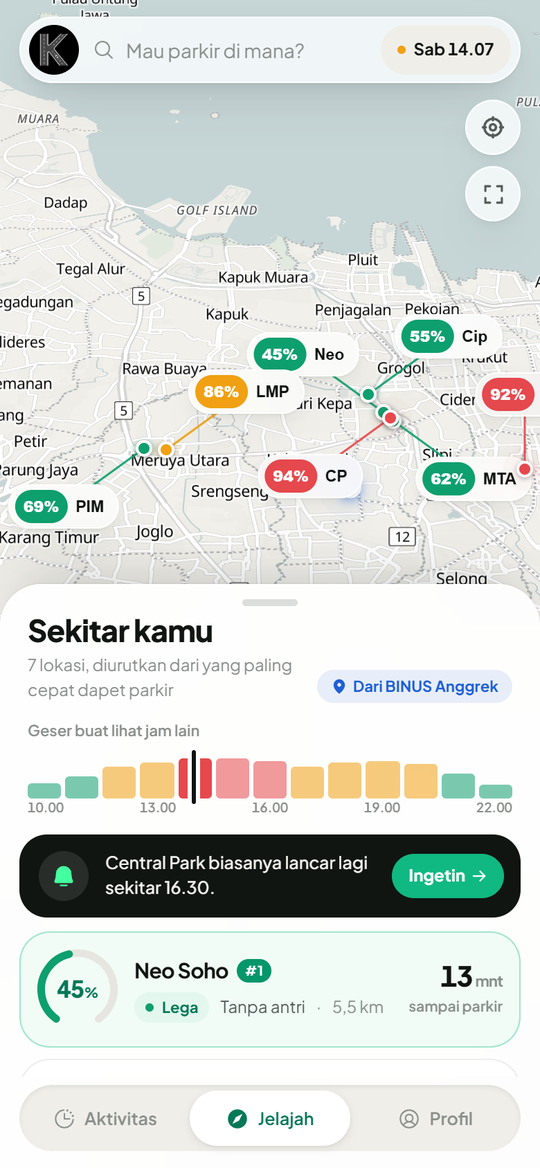
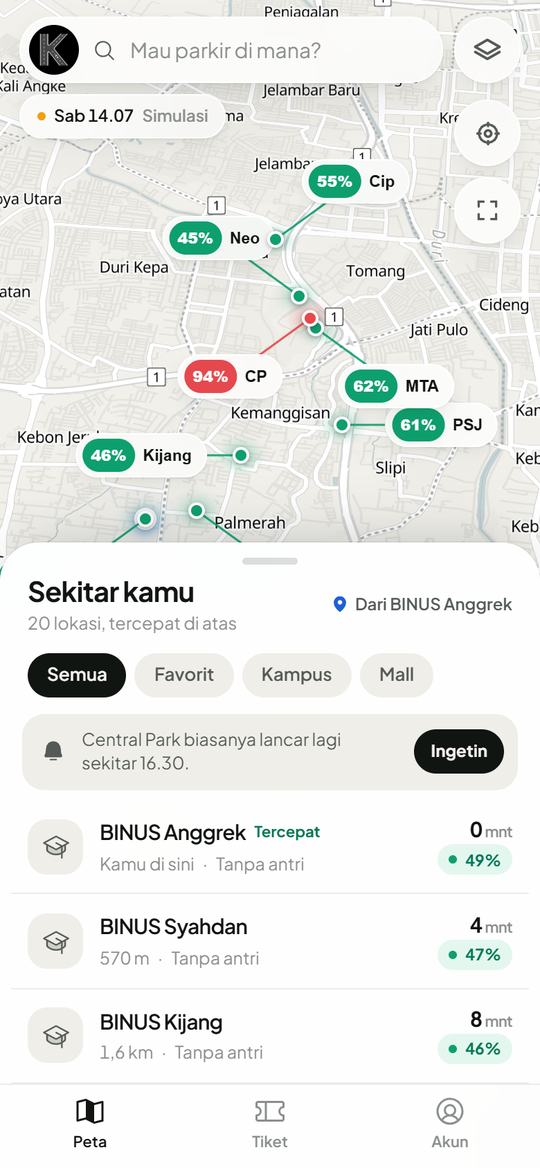
docs: three tabs, valet, campuses, motorbikes and map options

diff --git a/README.md b/README.md
@@ -8,73 +8,112 @@
 Seberapa penuh, antri gerbang berapa menit, dan ke mana kalau penuh. Sebelum kamu berangkat.</p>
 
 <p align="center"><a href="https://kenneth-9339d.web.app"><b>kenneth-9339d.web.app</b></a><br/>
-Buka di HP untuk app-nya, atau di laptop untuk mode showcase dengan QR.</p>
+Buka di HP untuk app-nya. Di laptop, app yang sama tampil di bingkai HP dengan QR di pojok.</p>
 
 <p align="center">
-  <img src="docs/screens/explore.png" width="200" alt="Layar Jelajah" />
+  <img src="docs/screens/explore.png" width="200" alt="Tab Peta" />
   <img src="docs/screens/venue-led.png" width="200" alt="Detail lokasi dengan papan sisa slot" />
-  <img src="docs/screens/find-car-3d.png" width="200" alt="Denah basement 3D" />
-  <img src="docs/screens/priority-pass.png" width="200" alt="Tiket jalur prioritas" />
+  <img src="docs/screens/valet.png" width="200" alt="Tiket valet, mobil siap di lobi" />
+  <img src="docs/screens/account.png" width="200" alt="Tab Akun" />
 </p>
 
 > **Status: prototipe.** Dibuat untuk mata kuliah ENPR6312 Venture Creation (BINUS, semester ganjil 2026/2027).
 > Semua angka okupansi, antrian, dan tarif di app ini **disimulasikan**. Belum ada pengelola gedung yang terhubung,
 > dan app menyebut itu di setiap halaman lokasi.
 
-*English summary: KENNETH is a mobile web app that shows how full Jakarta mall car parks are before you leave home,
-how long the gate queue is, and which nearby mall still has space. This repo is a working prototype with simulated data,
-built for a university venture course.*
+*English summary: KENNETH is a mobile web app that shows how full Jakarta car parks (malls and the BINUS campuses)
+are before you leave home, how long the gate queue is, and which nearby place still has space. It books priority
+entry, the building's valet and EV chargers. This repo is a working prototype with simulated data, built for a
+university venture course.*
 
 ---
 
 ## Masalahnya
 
 Di Jakarta, akhir pekan, muter 20 sampai 30 menit nyari parkir itu biasa. Yang bikin kesel, sering ada mall lain
-5 menit dari situ yang masih lega, dan nggak ada yang ngasih tahu. Google Maps nganter sampai pintu gedung lalu berhenti.
-App operator parkir baru kepakai setelah kamu masuk. Padahal keputusan paling berharga terjadi sebelum berangkat.
+5 menit dari situ yang masih lega, dan nggak ada yang ngasih tahu. Hari kerja ceritanya pindah ke kampus: gedung parkir
+BINUS penuh dari kelas pagi, padahal kampus sebelahnya masih ada tempat. Google Maps nganter sampai pintu gedung lalu
+berhenti. App operator parkir baru kepakai setelah kamu masuk. Padahal keputusan paling berharga terjadi sebelum berangkat.
 
 **Google Maps berhenti di pintu gedung. KENNETH mulai dari situ.**
 
-## Yang bisa dicoba
+## Cara pakainya
+
+App-nya cuma tiga tab, selalu di tempat yang sama di bawah layar. Nggak ada dashboard, dan app nggak pernah pindah
+tab sendiri.
+
+| Tab | Isi |
+|---|---|
+| **Peta** | Peta plus daftar tempat, urut dari yang paling cepat dapet parkir. Filter Semua, Favorit, Kampus, Mall. Buka satu tempat untuk papan "SISA SLOT" dan empat tombol: Rute, Pesan, Parkir, Ingetin |
+| **Tiket** | Yang sedang berjalan: lokasi parkirmu, tiket jalur prioritas, valet, charger. Lalu pengingat dan riwayat |
+| **Akun** | Masuk dengan Google atau tetap jadi tamu, kendaraan (mobil dan motor), paket, dampak bulan ini, opsi peta, notifikasi |
+
+Pertama kali dibuka ada onboarding empat langkah (bisa dilewati): sambutan, yang bisa dibantu, tempat favorit,
+kendaraan. Setelah itu langsung ke peta.
+
+Halaman lain:
 
 | Halaman | Isi |
 |---|---|
-| `/` | App utama. Di HP tampil penuh, di laptop tampil sebagai showcase dengan HP yang bisa diklik dan QR buat dibuka di HP |
 | `/mitra` | Dashboard untuk pengelola gedung (produk B2B): pengunjung yang batal datang, larinya ke mana, beban tiap gerbang, pola seminggu |
 | `/booth` | Mode booth BINUS Festival: form validasi + feedback grid, hasilnya bisa diunduh CSV atau JSON |
 
-Untuk demo, jam app diset ke **Sabtu 14.07** (skenario puncak). Ganti lewat chip jam di pojok kanan atas atau
-Profil, Mode demo, Waktu simulasi.
+Keduanya ada di Akun, bagian "Untuk tim dan demo". Untuk demo, jam app diset ke **Sabtu 14.07** (mall puncak).
+Ganti lewat chip jam di kiri atas peta. **Selasa 10.00** memperlihatkan kampus yang penuh.
+
+## Lokasi
+
+20 lokasi, sengaja dipadatkan di sekitar tiap kampus BINUS (keputusan tim: kepadatan cakupan lebih penting dari luas):
+
+| Area | Kampus | Mall |
+|---|---|---|
+| Kemanggisan, Tanjung Duren | BINUS Anggrek, Syahdan, Kijang | Central Park, Neo Soho, Taman Anggrek, Mal Ciputra, Plaza Slipi Jaya |
+| Puri | | Lippo Mall Puri, Puri Indah Mall |
+| Senayan, Thamrin | BINUS Senayan | Senayan City, Plaza Senayan, fX Sudirman, Grand Indonesia |
+| Alam Sutera | BINUS Alam Sutera | Mall @ Alam Sutera, Living World |
+| Bekasi | BINUS Bekasi | Summarecon Mall Bekasi |
+
+Kampus punya kurva sendiri (penuh dari kelas pagi di hari kerja, sepi hari Minggu) dan jam buka 06.00 sampai 21.00.
+Kalau satu kampus penuh, alternatifnya kampus lain atau tempat yang bisa dijalan kaki, bukan mall di seberang kota.
+Motor dan mobil punya slot, tingkat keterisian, dan tarif sendiri: ganti kendaraan di Akun, semua angka ikut berubah.
 
 ## Fitur, dipetakan ke 11 fitur di dokumen strategi
 
 | # | Fitur | Di mana |
 |---|---|---|
-| 01 | Kondisi parkir real-time | Pin dan daftar di Jelajah, papan "SISA SLOT" di detail lokasi |
+| 01 | Kondisi parkir real-time | Pin dan daftar di Peta, papan "SISA SLOT" di detail lokasi |
 | 02 | Rekomendasi alternatif | Detail lokasi yang penuh, bagian "Masih lega di dekat sini" |
-| 03 | Ingetin saat lega | Kartu "biasanya lancar lagi sekitar..." di Jelajah dan detail |
-| 04 | Estimasi biaya parkir | Detail lokasi, pengatur jam |
-| 05 | Arahkan ke gerbang yang bener | Chip antrian tiap gerbang di peta, rute otomatis ke gerbang paling lancar |
-| 06 | Inget lokasi mobil | "Udah sampai" atau "Parkir di sini", simpan lantai, zona, pilar, lobi, foto |
-| 07 | Rute mobil ke tenant | Detail lokasi, "Dari parkir ke tujuan", plus denah basement 3D di "Cari mobil" |
-| 08 | Slot difabel dan ibu hamil | Detail lokasi, bagian "Slot khusus" |
-| 09 | Booking jalur prioritas | Tombol "Jalur prioritas" saat antrian panjang, tiket QR di Aktivitas |
-| 10 | Booking charger EV | Detail lokasi, bagian "Charger mobil listrik" |
-| 11 | Pola kebiasaan pribadi | Aktivitas, kartu "Pola kebiasaanmu" (Premium) |
+| 03 | Ingetin saat lega | Tombol "Ingetin" di detail, baris pengingat di daftar |
+| 04 | Estimasi biaya parkir | Detail lokasi, baris "Biaya parkir" |
+| 05 | Arahkan ke gerbang yang bener | Chip antrian tiap gerbang di peta, tombol Rute ke gerbang paling lancar (di KENNETH, Google Maps, atau Waze) |
+| 06 | Inget lokasi mobil | Tombol "Parkir", simpan lantai, zona, pilar, lobi, foto. Muncul di Tiket dan sebagai chip di peta |
+| 07 | Rute mobil ke tenant | Detail lokasi, "Dari parkir ke tujuan", plus denah basement 3D di "Cari kendaraan" |
+| 08 | Slot difabel dan ibu hamil | Detail lokasi, baris "Slot khusus" |
+| 09 | Booking jalur prioritas | Tombol "Pesan", tab Jalur prioritas. Tiket QR di tab Tiket |
+| 10 | Booking charger EV | Tombol "Pesan", tab Charger EV |
+| 11 | Pola kebiasaan pribadi | Akun, Dampak bulan ini, "Pola kebiasaanmu" (Premium) |
 
-Tambahan di luar 11 fitur: scrubber jam ala ramalan cuaca (geser, seluruh peta ikut berubah), lapor kondisi ala Waze,
-cek ganjil-genap (mobil listrik bebas), laporan dampak bulanan dengan rumus terbuka, pusat privasi, mode gelap untuk nyetir malam,
-bahasa Indonesia dan Inggris, bisa di-install sebagai app (PWA).
+Tambahan di luar 11 fitur:
+
+- **Valet gedung.** Pesan drop-off, tunjukkan QR ke petugas, lalu tekan "Siapkan mobil" sebelum turun ke lobi.
+  Ada hitung mundur dan notifikasi "Mobilmu siap di Lobi A". Bayarnya tetap di meja valet.
+- **Opsi peta.** Tampilan Tenang atau Detail, gedung 3D nyala atau mati, dan tombol Rute bisa langsung membuka
+  Google Maps atau Waze dengan tujuan gerbang paling lancar.
+- **Akun Google** lewat Firebase Authentication. Mode tamu tetap bisa semua fitur.
+- Scrubber jam ala ramalan cuaca, lapor kondisi ala Waze, cek ganjil-genap, laporan dampak bulanan dengan rumus terbuka,
+  pusat privasi, mode gelap, bahasa Indonesia dan Inggris, bisa di-install sebagai app (PWA).
 
 ## Keputusan produk yang kelihatan di app
 
 - **Tidak jual petak, jual giliran masuk.** Tiket prioritas berlaku 15 menit untuk lewat jalur khusus. Setelah masuk,
   parkir biasa tanpa batas waktu dan tanpa denda. Lihat [docs/PRODUCT.md](docs/PRODUCT.md) untuk alasannya.
 - **Booking bayar per pakai.** Premium cuma jual hal yang nggak pernah habis: booking lebih awal, diskon, notifikasi.
-- **Jual 24 dari 30 giliran per jendela.** Sisanya bantalan buat yang telat.
 - **Jalur prioritas cuma ditawarkan kalau antrian nyata** (5 menit ke atas). Kalau sepi, app bilang nggak perlu.
+- **Valet milik gedung, bukan armada kami.** KENNETH cuma pintu digitalnya. Nol biometrik, bayar di meja valet.
+- **Kampus tidak menjual apa pun.** Di kampus app cuma menunjukkan seberapa penuh dan ke mana kalau penuh.
 - **Jujur soal sumber data.** Tiap lokasi berlabel "Data palang" atau "Estimasi".
-- **Data pribadi tinggal di HP.** Prototipe ini tidak punya server. Yang nantinya dijual ke pengelola hanya agregat per jam.
+- **Data pribadi tinggal di HP.** Login Google hanya mengirim nama, email, dan foto profil. Riwayat, tiket, dan lokasi
+  parkir tetap di perangkat. Yang nantinya dijual ke pengelola hanya agregat per jam.
 
 ## Jalankan sendiri
 
@@ -85,7 +124,8 @@ npm install
 npm run dev
 ```
 
-Buka `http://localhost:5173`. Perintah lain:
+Buka `http://localhost:5173`. Tanpa konfigurasi apa pun app jalan dalam mode tamu. Untuk mengaktifkan tombol
+"Masuk dengan Google", salin `.env.example` jadi `.env.local` lalu isi nilainya (cara ambilnya tertulis di file itu).
 
 ```bash
 npm test          # unit test mesin simulasi (vitest)
@@ -114,22 +154,27 @@ npm run deploy           # build lalu publish ke https://kenneth-9339d.web.app
 npm run deploy:preview   # link uji coba terpisah, hangus sendiri setelah 7 hari
 ```
 
+Login Google perlu diaktifkan sekali oleh pemilik project: Firebase console, Authentication, Get started,
+Sign-in method, Google, Enable, pilih email dukungan, Save. Tidak perlu deploy ulang setelahnya.
+
 ## Stack
 
 React 19, TypeScript, Vite, Tailwind CSS 4, Motion untuk animasi, MapLibre GL dengan peta
 [OpenFreeMap](https://openfreemap.org) (data OpenStreetMap, gratis tanpa API key), rute dari server demo
 [OSRM](https://project-osrm.org), three.js untuk denah basement 3D, Zustand untuk state yang disimpan di perangkat,
-vite-plugin-pwa. Font: Plus Jakarta Sans (dibuat untuk identitas kota Jakarta) dan Doto untuk angka ala papan LED parkir.
+Firebase Authentication untuk login Google (dimuat hanya saat tombolnya ditekan), vite-plugin-pwa.
+Font: Plus Jakarta Sans (dibuat untuk identitas kota Jakarta) dan Doto untuk angka ala papan LED parkir.
 
 ## Struktur
 
 ```
 src/
-  data/        daftar lokasi (koordinat asli OSM, sisanya data demo)
-  engine/      mesin simulasi: okupansi, antrian gerbang, harga, ganjil-genap, dampak, ranking, angka mitra
+  data/        daftar lokasi (koordinat dan gerbang dari OSM, sisanya data demo)
+  engine/      mesin simulasi: okupansi, antrian gerbang, harga, valet, ganjil-genap, dampak, ranking, angka mitra
   store/       state app (disimpan di localStorage), state UI, jam simulasi, jawaban booth
   i18n/        teks Indonesia dan Inggris
-  components/  UI per layar: explore, sheets, activity, profile, onboarding, map, park (3D), charts
+  components/  UI per layar: explore (Peta), tickets, account, sheets (termasuk sheets/book), onboarding, map, park (3D)
+  lib/         login Google, navigasi ke app lain, notifikasi, waktu WIB
   pages/       /mitra dan /booth
 docs/          dokumen produk, model simulasi, screenshot, logo (docs/brand)
 ```
@@ -147,8 +192,8 @@ awal gerakannya bisa patah. Paling lambat 3,2 detik setelah halaman dibuka mobil
 mematikan animasi langsung masuk tanpa klip.
 
 Gerakan mobil mengikuti klip hasil generate AI, tapi setiap piksel mobil dan jalan diambil dari logo asli, jadi
-bentuknya tidak pernah berubah. Klipnya ada di `public/brand/` (MP4, WebM, dan poster frame pertama). Mau ganti,
-timpa file di sana lalu build ulang tanpa ubah kode. Versi loop 6 detik buat booth dan media sosial (1:1, 9:16,
+bentuknya tidak pernah berubah. Klipnya ada di `public/brand/` (MP4, WebM, dan poster frame pertama), begitu juga
+loop 6 detik versi kecil yang dipakai di layar sambutan onboarding. Versi loop untuk booth dan media sosial (1:1, 9:16,
 16:9) ada di [docs/brand](docs/brand).
 
 Cara kerja simulasinya dijelaskan di [docs/MODEL.md](docs/MODEL.md). Panduan buat anggota tim ada di
@@ -158,10 +203,11 @@ Cara kerja simulasinya dijelaskan di [docs/MODEL.md](docs/MODEL.md). Panduan bua
 
 - Peta: © OpenStreetMap contributors, disajikan oleh OpenFreeMap.
 - Rute: OSRM demo server, dipakai sewajarnya untuk prototipe. Kalau server lambat, app jatuh ke rute perkiraan.
-- Koordinat mall dari Nominatim (OpenStreetMap). Kapasitas, gerbang, tarif, jumlah charger, dan lantai tenant adalah
-  **data demo** dan belum dikonfirmasi ke pengelola.
-- Nama mall dipakai hanya sebagai contoh lokasi. Tidak ada kerja sama atau afiliasi dengan pengelola mana pun.
+- Koordinat mall dan kampus dari Nominatim (OpenStreetMap). Posisi gerbang lokasi yang ditambahkan 19 Sep 2026 diambil
+  dari pintu parkir dan jalan servis yang tercatat di OSM. Kapasitas, tarif, tarif valet, jumlah charger, dan lantai
+  tenant adalah **data demo** dan belum dikonfirmasi ke pengelola.
+- Nama mall dan kampus dipakai hanya sebagai contoh lokasi. Tidak ada kerja sama atau afiliasi dengan pengelola mana pun.
 
 <p align="center">
-  <img src="docs/screens/showcase.png" width="820" alt="Tampilan showcase di laptop" />
+  <img src="docs/screens/desktop.png" width="820" alt="Tampilan di laptop: app di bingkai HP dan QR" />
 </p>

diff --git a/docs/MODEL.md b/docs/MODEL.md
@@ -10,14 +10,21 @@ Produk nyatanya nanti: okupansi = mobil masuk dikurangi mobil keluar, dibaca dar
 
 Di prototipe:
 
-1. Ada tiga kurva per jam (WIB): akhir pekan, hari kerja, dan Jumat (hari kerja dengan malam yang lebih ramai).
+1. Mall punya tiga kurva per jam (WIB): akhir pekan, hari kerja, dan Jumat (hari kerja dengan malam yang lebih ramai).
    Kurva akhir pekan punya puncak jam 14 sampai 15, turun sekitar jam 17, lalu naik lagi buat makan malam.
+   Kampus punya tiga kurva sendiri: hari kerja (naik tajam jam 7, penuh jam 9 sampai 14, turun sore dengan sisa kelas
+   malam), Sabtu (sekitar separuhnya), dan Minggu (hampir kosong).
 2. Tiap lokasi punya `load` (seberapa tinggi puncaknya) dan `shiftMin` (datang lebih cepat atau lebih lambat).
    Rumusnya `okupansi = 0,04 + (kurva - 0,04) × load`.
 3. Ditambah "napas": dua gelombang sinus pelan (periode 17 dan 43 menit, amplitudo total sekitar 2%) supaya angka
    bergerak waktu layar dilihat lama.
 4. Status: **lega** di bawah 70%, **ramai** 70 sampai 89%, **penuh** 90% ke atas.
-5. Jam operasional yang dimodelkan: 10.00 sampai 22.00.
+5. Jam operasional per lokasi: mall 10.00 sampai 22.00, kampus 06.00 sampai 21.00. Perkiraan per jam, jendela
+   booking, dan pencarian "kapan lancar lagi" mengikuti jam lokasinya.
+
+**Motor.** Tiap lokasi juga punya slot motor sendiri: kapasitas, `load`, dan tarif. Kalau kendaraan yang dipakai
+motor, app menukar ketiga angka itu (`forKind`) dan semua rumus di bawah jalan seperti biasa. Gerbang, lantai, dan
+jam buka tetap sama.
 
 Waktu selalu dihitung dalam WIB, apa pun zona waktu perangkatnya.
 
@@ -54,6 +61,20 @@ Daftar di Jelajah diurutkan dari waktu sampai parkir paling kecil.
 Mulai dari sekarang, maju 15 menit sekali sampai jam tutup, cari saat pertama antrian gerbang utama 3 menit
 atau kurang dan status tidak penuh. Hasilnya dibulatkan ke seperempat jam.
 
+## 4b. Valet (`valet.ts`)
+
+Valet dijalankan pengelola gedung. Model kecilnya cuma dua angka yang ikut keramaian:
+
+```
+antre di lobi   = 1 + 7 × clamp((okupansi - 0,50) / 0,45)   menit
+mobil balik     = 6 + 14 × clamp((okupansi - 0,55) / 0,40)  menit
+```
+
+Jadi saat sepi mobil balik dalam 6 menit, saat hampir penuh sampai 20 menit, karena runner harus turun lebih
+jauh dan jalurnya lebih padat. Status tiket dihitung dari waktu, bukan disimpan: menunggu kamu datang, dipegang
+valet, sedang diambil, siap, selesai. Pesanan yang tidak didatangi lebih dari 45 menit setelah jam pilihan hangus
+tanpa biaya.
+
 ## 5. Harga jalur prioritas (`pricing.ts`)
 
 - Harga dasar naik linear dari Rp15.000 (okupansi 80%) ke Rp30.000 (okupansi 98%), dibulatkan ke ribuan.
@@ -88,4 +109,5 @@ bensin adalah angka pembakaran yang umum dipakai. Mobil listrik dihitung hemat w
 ## Yang perlu divalidasi sebelum angka ini dipakai di luar demo
 
 Semua parameter di atas adalah asumsi awal tim. Yang paling menentukan, dan paling perlu dicek ke lapangan:
-kurva okupansi akhir pekan tiap mall, porsi pengunjung yang batal datang saat penuh, dan faktor lalu lintas.
+kurva okupansi akhir pekan tiap mall, kurva kampus mengikuti jadwal kuliah yang sebenarnya, perbandingan slot motor
+dan mobil di tiap kampus, porsi pengunjung yang batal datang saat penuh, faktor lalu lintas, dan waktu ambil mobil valet.

diff --git a/docs/PRODUCT.md b/docs/PRODUCT.md
@@ -47,6 +47,20 @@ Aturan tambahan yang ikut ditanam di app:
 - Booking charger mobil listrik aman dijanjikan, karena chargernya sendiri jadi sensor sekaligus
   penegak aturan.
 
+**Valet, versi yang bisa dipertanggungjawabkan.** Mockup awal punya valet antar pengguna dengan Face ID.
+Itu butuh armada yang tidak kami punya dan data biometrik yang tidak perlu dikumpulkan. Yang benar-benar
+bikin kesal soal valet di mall hari Sabtu adalah menunggu mobil dibawa balik. Jadi KENNETH jadi pintu
+digital untuk valet milik gedung:
+
+- Pesan drop-off: pilih lobi dan jam datang, dapat tiket QR pengganti karcis kertas.
+- Tekan "Siapkan mobil" sebelum turun ke lobi. App menghitung mundur dan mengabari saat mobil siap.
+- Tarif dibayar di meja valet seperti biasa, bukan di app. Nol biometrik.
+- Operator valet jadi calon mitra baru, di samping pengelola gedung.
+
+**Kampus tidak menjual apa pun.** Di kampus BINUS app hanya menunjukkan seberapa penuh gedung parkir dan
+ke mana kalau penuh (kampus lain atau tempat yang bisa dijalan kaki). Motor dan mobil dihitung terpisah,
+karena di kampus porsi motor jauh lebih besar.
+
 **Sengaja tidak dibuat:**
 
 | Ide | Kenapa tidak |
@@ -54,7 +68,7 @@ Aturan tambahan yang ikut ditanam di app:
 | Reservasi petak | Tidak bisa ditegakkan, lihat di atas |
 | Bayar parkir di app | Sudah dikerjakan operator parkir. Kami masuk sebelum mereka, bukan menggantikan |
 | Poin, lencana, gamifikasi | Tidak menjawab masalah. Diganti laporan dampak bulanan dengan rumus terbuka |
-| Valet antar pengguna dengan Face ID (ada di mockup awal) | Bukan bagian dari 11 fitur, butuh armada, dan data biometrik terlalu berisiko untuk prototipe |
+| Valet antar pengguna dengan Face ID (ada di mockup awal) | Butuh armada dan data biometrik. Diganti valet milik gedung, lihat di atas |
 
 ## Harga
 
@@ -123,6 +137,8 @@ Supaya tidak ada yang mengira ini sudah jalan sungguhan:
 - Pembayaran hanya simulasi. Tidak ada uang yang ditarik.
 - Notifikasi duluan kalau ada yang batal (Premium) baru tertulis di halaman paket.
 - Laporan kondisi dari pengguna tersimpan di HP, belum dikirim ke server mana pun.
-- Tidak ada akun. Pindah HP berarti mulai dari awal.
+- Login Google sudah ada, tapi data belum disinkronkan antar perangkat. Pindah HP berarti riwayat dan tiket
+  mulai dari awal. Ini disengaja selama prototipe, supaya data pribadi tidak tersimpan di server.
+- Valet belum tersambung ke operator valet mana pun. Waktu ambil mobil dihitung dari model, bukan dari petugas.
 - Ganjil-genap belum menghitung hari libur nasional.
 - Denah basement, lantai tenant, dan jumlah charger adalah data demo.

diff --git a/CONTRIBUTING.md b/CONTRIBUTING.md
@@ -83,8 +83,14 @@ Jangan hapus label "Estimasi", "Data palang", atau keterangan pembayaran simulas
 
 Tambah satu objek di `src/data/venues.ts` dan id-nya di tipe `VenueId` di `src/data/types.ts`.
 
-- Koordinat mall dan gerbang ambil dari OpenStreetMap, urutannya bujur dulu lalu lintang.
+- Koordinat lokasi dan gerbang ambil dari OpenStreetMap, urutannya bujur dulu lalu lintang. Untuk gerbang, cari
+  `amenity=parking_entrance` atau jalan servis di sebelah gedung.
+- `category` menentukan kurvanya (`mall` atau `kampus`), `hours` jam buka dan tutupnya.
 - `load` mengatur seberapa ramai puncaknya (1 berarti menyentuh puncak kurva), `shiftMin` menggeser jam ramainya.
+- `motor` berisi slot motor sendiri: kapasitas, `load`, dan tarif (harus lebih murah dari tarif mobil).
+- `valet` opsional dan hanya untuk mall. Lobinya harus salah satu dari `lobbies`.
+- Mall wajib punya minimal satu gerbang dengan `priorityLane`, kampus tidak boleh punya.
+- `walkLinks` harus dua arah dengan menit yang sama, test akan menagihnya.
 - `pull` tiap gerbang menentukan ke mana antrian menumpuk. Gerbang utama biasanya paling besar.
 - `labelDir` mengatur arah label pin di peta supaya tidak bertabrakan dengan lokasi di dekatnya.
 - Kapasitas, tarif, charger, dan tenant diisi sebagai data demo dan tetap disebut demo.
@@ -94,8 +100,10 @@ kejauhan dari gedungnya, dan field yang wajib ada.
 
 ## Tips
 
-- Jam app bisa diganti lewat chip jam di pojok kanan atas. Skenario default Sabtu 14.07.
-- Profil, "Hapus semua data di perangkat ini" mengembalikan app ke kondisi awal, termasuk onboarding.
+- Jam app bisa diganti lewat chip jam di kiri atas peta. Skenario default Sabtu 14.07, Selasa 10.00 untuk kampus penuh.
+- Akun, Privasi dan data, "Hapus data" mengembalikan app ke kondisi awal, termasuk onboarding.
+- Tombol "Masuk dengan Google" baru muncul kalau `.env.local` diisi (lihat `.env.example`).
+- Nggak ada yang boleh pindah tab otomatis. Setelah aksi berhasil, cukup toast dan titik di tab Tiket (`markTickets`).
 - Di mode dev, objek peta tersedia di console sebagai `window.__kmap`.
 - Rute dari OSRM kadang lambat. Setelah 6 detik app otomatis pakai rute perkiraan.
 - Data app tersimpan di `localStorage` dengan kunci `kenneth-app`.
